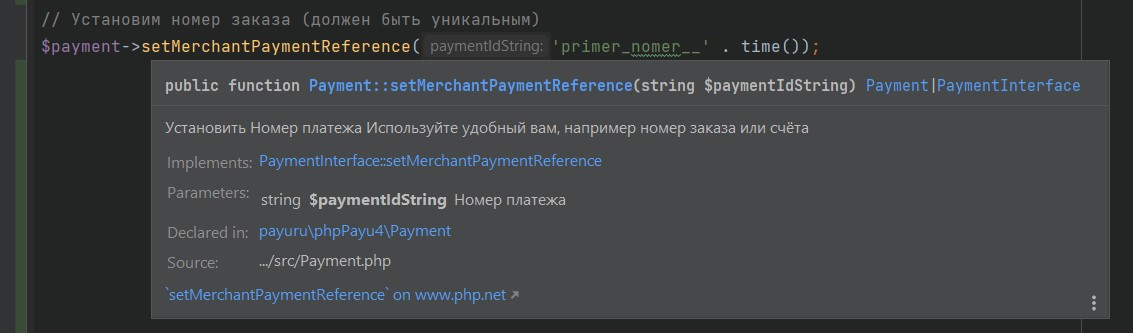
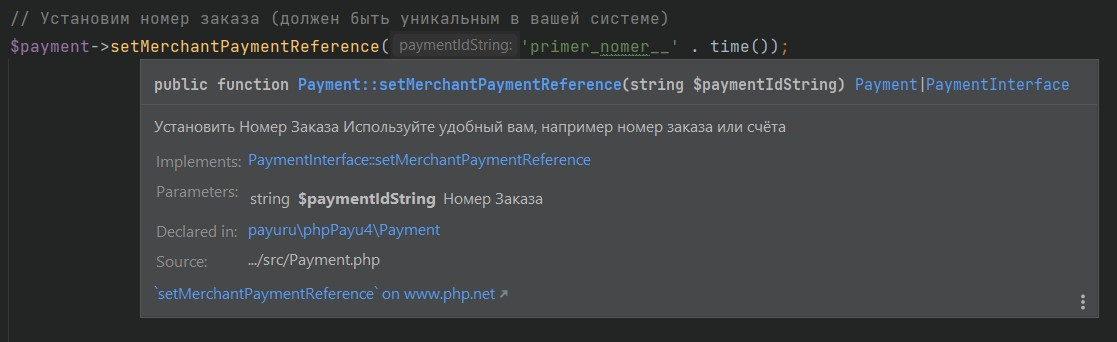
readme

Changed region(s): [[0.0, 0.1201, 1.0, 1.0], [0.0, 0.0, 0.6088, 0.0901]]

diff --git a/example.php b/example.php
@@ -121,15 +121,14 @@ if(isset($_GET['function'])){
 
                 // Создадим платёж
                 $payment = (new Payment);
-                // Установим валюту
-                $payment->setCurrency('RUB');
                 // Установим позиции
                 $payment->addProduct($product1);
                 $payment->addProduct($product2);
-
-                // Установим авторизацию
+                // Установим валюту
+                $payment->setCurrency('RUB');
+                // Создадим и установим авторизацию по типу платежа
                 $payment->setAuthorization(new Authorization('CCVISAMC',true));
-                // Установим номер заказа (должен быть уникальным)
+                // Установим номер заказа (должен быть уникальным в вашей системе)
                 $payment->setMerchantPaymentReference('primer_nomer__' . time());
                 // Установим адрес перенаправления пользователя после оплаты
                 $payment->setReturnUrl('http://127.0.0.1:8080/?function=returnPage');
@@ -147,7 +146,14 @@ if(isset($_GET['function'])){
                 // Преобразуем ответ из JSON в массив
                 $responseData = json_decode((string) $responseData["response"], true);
                 // Нарисуем кнопку оплаты
-                echo '<a href="'.$responseData["paymentResult"]['url'].'" class="btn btn-success" target="_b" rel="noopener"> ОПЛАТА </a><br><br><br>';
+                echo '<a
+                    href="'.$responseData["paymentResult"]['url'].'"
+                    class="btn btn-success"
+                    target="_b"
+                    style="font-weight: bolder; color: green;"
+                    rel="noindex noopener">
+                        ОПЛАТА PAYU
+                    </a>';
                 break;
 
             case 'paymentCapture':

diff --git a/src/PaymentInterface.php b/src/PaymentInterface.php
@@ -4,9 +4,9 @@ namespace payuru\phpPayu4;
 interface PaymentInterface
 {
     /**
-     * Установить Номер платежа
+     * Установить Номер Заказа
      * Используйте удобный вам, например номер заказа или счёта
-     * @param string $paymentIdString Номер платежа
+     * @param string $paymentIdString Номер Заказа
      * @return $this
      */
     public function setMerchantPaymentReference(string $paymentIdString) : self;

diff --git a/README.md b/README.md
@@ -64,11 +64,11 @@ $product1->setVat(20);
 
 //Опишем вторую позицию с помощью сокращённого синтаксиса:
 $product2 = new Product([
-	'name'  => 'Жёлтый Круг',
-	'sku'  => 'toy-15',
-	'unitPrice'  => '1600',
-	'quantity'  => '3',
-	'vat'  => 0,
+'name'  => 'Жёлтый Круг',
+'sku'  => 'toy-15',
+'unitPrice'  => '1600',
+'quantity'  => '3',
+'vat'  => 0,
 ]);
 
 // Опишем Биллинговую (платёжную) информацию
@@ -136,33 +136,39 @@ $client->setCurrentClientTime();
 
 // Создадим платёж
 $payment = (new Payment);
-// Установим валюту
-$payment->setCurrency('RUB');
 // Установим позиции
 $payment->addProduct($product1);
 $payment->addProduct($product2);
-
-// Установим авторизацию
+// Установим валюту
+$payment->setCurrency('RUB');
+// Создадим и установим авторизацию по типу платежа
 $payment->setAuthorization(new Authorization('CCVISAMC',true));
-// Установим номер заказа (должен быть уникальным)
+// Установим номер заказа (должен быть уникальным в вашей системе)
 $payment->setMerchantPaymentReference('primer_nomer__' . time());
 // Установим адрес перенаправления пользователя после оплаты
 $payment->setReturnUrl('http://127.0.0.1:8080/?function=returnPage');
 // Установим клиентское подключение
 $payment->setClient($client);
 
-// Создадим запрос к API
+// Создадим HTTP-запрос к API
 $apiRequest = new ApiRequest($merchant);
-// Установим вывод сообщений отладки
+// Включить режим отладки (удалите в рабочей программе!)
 $apiRequest->setDebugMode();
-// Установим режим песочницы
+// Переключиться на тестовый сервер (удалите в рабочей программе!)
 $apiRequest->setSandboxMode();
 // Отправим запрос
 $responseData = $apiRequest->sendAuthRequest($payment, $merchant);
 // Преобразуем ответ из JSON в массив
 $responseData = json_decode((string) $responseData["response"], true);
 // Нарисуем кнопку оплаты
-echo '<a href="'.$responseData["paymentResult"]['url'].'" class="btn btn-success" target="_b" rel="noopener"> ОПЛАТА </a><br><br><br>';S
+echo '<a
+href="'.$responseData["paymentResult"]['url'].'"
+class="btn btn-success"
+target="_b"
+style="font-weight: bolder; color: green;"
+rel="noindex noopener">
+    ОПЛАТА PAYU
+</a>';
 ```
 ### Страница пользователя после совершения платежа
 Данные о состоянии платежа после его создания передаются в параметрах GET ($_GET)
